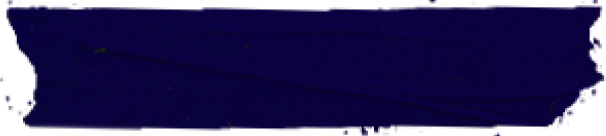
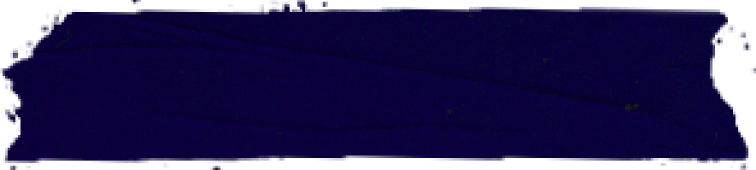
Fix da with cha

diff --git a/src/components/titles/TitleWithContent.js b/src/components/titles/TitleWithContent.js
@@ -1,35 +1,34 @@
 import React from "react";
 import { View, StyleSheet, Image, Text, Slider } from "react-native";
-import { Dimensions } from 'react-native';
-const windowWidth = Dimensions.get('window').width;
-const windowHeight = Dimensions.get('window').height;
+import { Dimensions } from "react-native";
+const windowWidth = Dimensions.get("window").width;
+const windowHeight = Dimensions.get("window").height;
 // import ColorBlending from 'gl-react-color-blending';
 
 let customFonts = {
-  MaimDisfigured: require('../../assets/fonts/MainDisfigured/MaimDisfigured.ttf'),
-}
-
+  MaimDisfigured: require("../../assets/fonts/MainDisfigured/MaimDisfigured.ttf"),
+};
 
 export default class TitleWithContent extends React.Component {
   constructor(props) {
     super(props);
     this.state = {};
     this.bg = this.props.dark
-      ? require("../../assets/img/title/TitreLargeNoir.png")
-      : require("../../assets/img/title/TitreLargeBleu.png");
+      ? require("../../assets/img/scotch/Noir.png")
+      : require("../../assets/img/scotch/Bleu.png");
   }
 
   state = {
     fontsLoaded: false,
-  }
+  };
 
   async _loadFontsAsync() {
-    await Font.loadAsync(customFonts)
-    this.setState({ fontsLoaded: true })
+    await Font.loadAsync(customFonts);
+    this.setState({ fontsLoaded: true });
   }
 
   componentDidMount() {
-    this._loadFontsAsync()
+    this._loadFontsAsync();
   }
 
   render() {
@@ -42,15 +41,24 @@ export default class TitleWithContent extends React.Component {
             {{uri: '../../assets/img/title/TitreLargeBleu.png'}}
         </ColorBlending> */}
         <Image
-          opacity={0.5}
+          // opacity={0.5}
           style={{
-            width: `${(this.props.children.length || 1.5) * 60}%`,
-            height: (this.props.children.length || 1) * 60,
+            width: `${this.props.children.length > 1 ? 120 : 110}%`,
+            height: this.props.children.length > 1 ? 100 : 75,
+            // width: `${(this.props.children.length || 1.5) * 60}%`,
+            // height: (this.props.children.length || 1) * 45,
             resizeMode: "stretch",
           }}
           source={this.bg}
         ></Image>
-        <View style={this.props.onRight ? styles.textOnLeft : styles.text}>
+        <View
+          style={[
+            this.props.onRight ? styles.textOnLeft : styles.text,
+            {
+              width: "100%",
+            },
+          ]}
+        >
           {this.props.children}
         </View>
       </View>
@@ -63,7 +71,7 @@ const styles = StyleSheet.create({
     justifyContent: "center",
     alignItems: "center",
     width: "100%",
-    left: 90,
+    left: 70,
   },
   textOnLeft: {
     color: "white",
@@ -77,7 +85,7 @@ const styles = StyleSheet.create({
     width: "100%",
   },
   text: {
-    fontFamily: 'MaimDisfigured',
+    fontFamily: "MaimDisfigured",
     color: "white",
     position: "absolute",
     width: "100%",

diff --git a/src/pages/Room/Room.js b/src/pages/Room/Room.js
@@ -2,7 +2,7 @@ import React, { useRef, useEffect } from "react";
 import { View, Text, StyleSheet, Image } from "react-native";
 import { Button, ButtonContainer } from "../../components/Button";
 import useSocket from "../../App/Socket/useSocket";
-import {Audio} from 'expo-av'
+import { Audio } from "expo-av";
 
 import Title1 from "../../components/titles/Title1";
 import TitleWithContent from "../../components/titles/TitleWithContent";
@@ -29,24 +29,28 @@ let Room = ({ navigation }) => {
     return () => clearInterval(roomInterval);
   }, [roomInfo]);
 
-  playSoundHardcore = ()=> {
+  playSoundHardcore = () => {
     try {
-        const { sound: soundObject, status } = Audio.Sound.createAsync(
-          require('../../assets/sound/niveau_hardcore_1.wav'),
-          { shouldPlay: true }
-        );
-      } catch (error) {
-      }
-}
-playSoundMS = ()=> {
-  try {
-      const { sound: soundObject, status } = Audio.Sound.createAsync(
-        require('../../assets/sound/niveau_mainstream.wav'),
+      const {
+        sound: soundObject,
+        status,
+      } = Audio.Sound.createAsync(
+        require("../../assets/sound/niveau_hardcore_1.wav"),
         { shouldPlay: true }
       );
-    } catch (error) {
-    }
-}
+    } catch (error) {}
+  };
+  playSoundMS = () => {
+    try {
+      const {
+        sound: soundObject,
+        status,
+      } = Audio.Sound.createAsync(
+        require("../../assets/sound/niveau_mainstream.wav"),
+        { shouldPlay: true }
+      );
+    } catch (error) {}
+  };
 
   return (
     <View
@@ -63,7 +67,7 @@ playSoundMS = ()=> {
       >
         <TitleWithContent onRight>
           <P1 font={"maim"} color={"white"}>
-            NUMERO DE LA ROOM
+            numÉro de la room
           </P1>
           <View />
         </TitleWithContent>
@@ -106,8 +110,22 @@ playSoundMS = ()=> {
             </View>
           </TitleWithContent>
           <MainBtn bold content="SOFT VANILLA" rotation2 />
-          <MainBtn bold content="REGULAR MAINSTREAM" onPress={()=>{playSoundMS()}} rotation1 />
-          <MainBtn bold content="HARDCORE" onPress={()=>{playSoundHardcore()}} rotation3 />
+          <MainBtn
+            bold
+            content="REGULAR MAINSTREAM"
+            onPress={() => {
+              playSoundMS();
+            }}
+            rotation1
+          />
+          <MainBtn
+            bold
+            content="HARDCORE"
+            onPress={() => {
+              playSoundHardcore();
+            }}
+            rotation3
+          />
         </View>
       </View>
       {roomInfo.role == "owner" ? (
@@ -137,6 +155,7 @@ const styles = StyleSheet.create({
     justifyContent: "center",
     alignItems: "center",
     top: -50,
+    left:20,
   },
 
   bg: {

diff --git a/src/pages/Roles/Roles.js b/src/pages/Roles/Roles.js
@@ -12,7 +12,7 @@ import useSocket from "../../App/Socket/useSocket";
 
 // import { Button, ButtonContainer } from "../../components/Button";
 import TitleWithContent from "../../components/titles/TitleWithContent";
-import { P1, P2 } from "../../components/Paragraph/Paragraph";
+import { P1, P2, P3 } from "../../components/Paragraph/Paragraph";
 import { H3, H2 } from "../../components/headers/Headers";
 import NextButton from "../../components/btn/NextBtn.js";
 
@@ -58,12 +58,35 @@ let Roles = ({ navigation, setBackGround }) => {
         <>
           <View style={rolesStyles.title}>
             <TitleWithContent onRight>
-              <P1 font={"maim"} color={"white"}>
-                Tire {3 - pressCount} mouchoir
-              </P1>
-              <P2 font={"maim"} color={"white"}>
-                pour découvrir ton personnage
-              </P2>
+              {/* <View
+                style={{
+                  justifyContent: "center",
+                  alignItems: "center",
+                  left: -70,
+                }}
+              >
+                <P1 font={"maim"} color={"white"}>
+                  SECOUE TON TELEPHONE
+                </P1>
+                <P3 font={"maim"} color={"white"}>
+                  POUR FINIR
+                </P3>
+              </View> */}
+              <View
+                style={{
+                  justifyContent: "center",
+                  alignItems: "center",
+                  left: -70,
+                }}
+              >
+                <P1 font={"maim"} color={"white"}>
+                  Tire {3 - pressCount} mouchoir{`${pressCount < 2 ? "s" : ""}`}
+                </P1>
+                <P2 font={"maim"} color={"white"}>
+                  pour découvrir ton personnage
+                </P2>
+              </View>
+              <View />
             </TitleWithContent>
           </View>
         </>

diff --git a/src/App/routes.js b/src/App/routes.js
@@ -133,7 +133,7 @@ export default () => {
                         back
                         title={
                           <P1 font={"maim"} color={"blue"}>
-                            {game.theme}
+                            {game.theme} 0{game.round.laps}/04
                           </P1>
                         }
                       />
@@ -161,7 +161,7 @@ export default () => {
                       back
                       title={
                         <P1 font={"maim"} color={"blue"}>
-                          {game.theme}
+                          {game.theme} 0{game.round.laps}/04
                         </P1>
                       }
                     />
@@ -205,7 +205,7 @@ export default () => {
                       back
                       title={
                         <P1 font={"maim"} color={"blue"}>
-                          {game.theme}
+                          {game.theme} 0{game.round.laps}/04
                         </P1>
                       }
                     />
@@ -288,7 +288,15 @@ export default () => {
                     style={styles.background}
                   >
                     <View style={styles.header}>
-                      <MainHeader />
+                      <MainHeader
+                        param
+                        back
+                        title={
+                          <P1 font={"maim"} color={"blue"}>
+                            {game.theme} 0{game.round.laps}/04
+                          </P1>
+                        }
+                      />
                     </View>
                     <View style={styles.content}>
                       <EndGame {...props} setBackGround={setBackGround} />

diff --git a/src/pages/Home/index.js b/src/pages/Home/index.js
@@ -26,19 +26,43 @@ let Home = ({ navigation }) => {
     <View style={styles.container}>
       <Image source={require("../../assets/Logo.png")} style={styles.logo} />
       <TitleWithContent onRight>
-        <View style={{ width: "100%", alignItems: "center" }}>
-          <P1 font={"maim"} color={"white"}>
-            Partie de jambes
-          </P1>
-          <P1 font={"maim"} color={"white"}>
-            en l'air
-          </P1>
+        <View
+          style={{
+            width: "100%",
+            alignItems: "center",
+            lineHeight: 2,
+            left: -70,
+          }}
+        >
+          <View
+            styles={{
+              top: 100,
+              // backgroundColor: "violet",
+              position: "relative",
+            }}
+          >
+            <P1 font={"maim"} color={"white"}>
+              Partie de jambes
+            </P1>
+          </View>
+          <View
+            styles={{
+              top: 100,
+
+              // backgroundColor: "violet",
+              position: "relative",
+            }}
+          >
+            <P1 font={"maim"} color={"white"}>
+              en l'air
+            </P1>
+          </View>
         </View>
         <View />
       </TitleWithContent>
       <View style={styles.btn1}>
         <MainBtn
-          content="Create a Room"
+          content="CRÉER UNE ROOM"
           rotation1
           onPress={() => {
             createRoom();
@@ -50,7 +74,7 @@ let Home = ({ navigation }) => {
       </View>
       <View style={styles.btn2}>
         <MainBtn
-          content="Join a Room"
+          content="REJOINDRE UNE ROOM"
           style={styles.btn2}
           rotation2
           onPress={() => {

diff --git a/src/components/headers/MainHeader.js b/src/components/headers/MainHeader.js
@@ -58,11 +58,11 @@ const styles = StyleSheet.create({
   },
   icon1: {
     marginLeft: 10,
-    marginTop: 25,
+    marginTop: 15,
   },
   icon2: {
     marginRight: 10,
-    marginTop: 25,
+    marginTop: 15,
     right: 0,
   },
 });
@@ -104,7 +104,7 @@ let ParamBtn = ({}) => {
       <View
         style={{
           flex: 1,
-          backgroundColor: "transparent",
+          
           justifyContent: "center",
         }}
       >

diff --git a/src/pages/Roles/BoiteMouchoir.js b/src/pages/Roles/BoiteMouchoir.js
@@ -63,8 +63,9 @@ playSound3 = ()=> {
           <View style={rolesStyles.boiteMouchoirArrow}>
             <Image
               style={{
-                width: 50,
-                height: 50,
+                width: 30,
+                height: 30,
+                marginTop: -50,
                 transform: [{ rotate: "90deg" }],
               }}
               source={require("../../assets/img/headers/retourIco.png")}

diff --git a/src/components/Paragraph/Paragraph.js b/src/components/Paragraph/Paragraph.js
@@ -43,7 +43,7 @@ const styles = StyleSheet.create({
   white: { color: 'white' },
   blue: { color: '#0C09D7' },
   maim: { fontFamily: 'MaimDisfigured' },
-  din: { fontFamily: 'DIN' },
+  din: { fontFamily: 'DIN', letterSpacing:2 },
   null: {},
 })
 

diff --git a/src/components/btn/MainBtn.js b/src/components/btn/MainBtn.js
@@ -97,6 +97,7 @@ const styles = StyleSheet.create({
   text: {
     position: "absolute",
     fontFamily: "DIN_Regular",
+    letterSpacing: 2
   },
   textBlue: {
     color: "blue",
